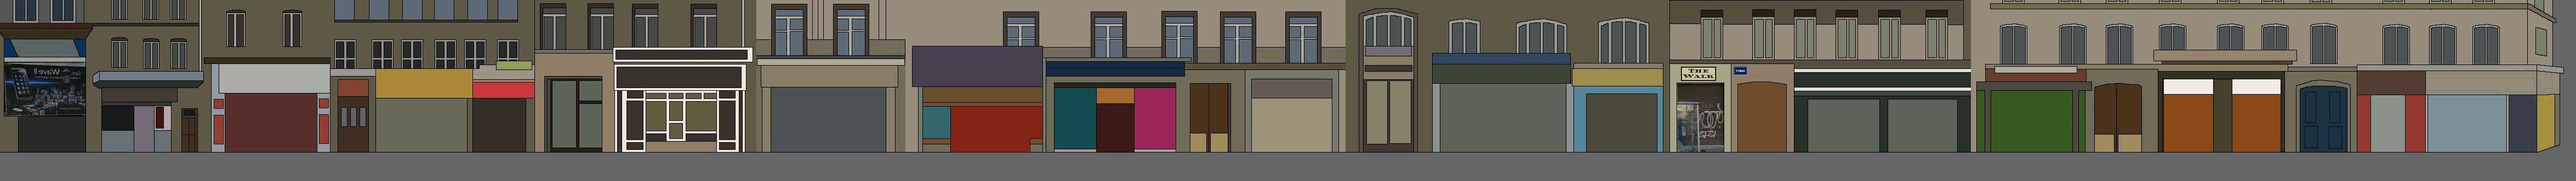
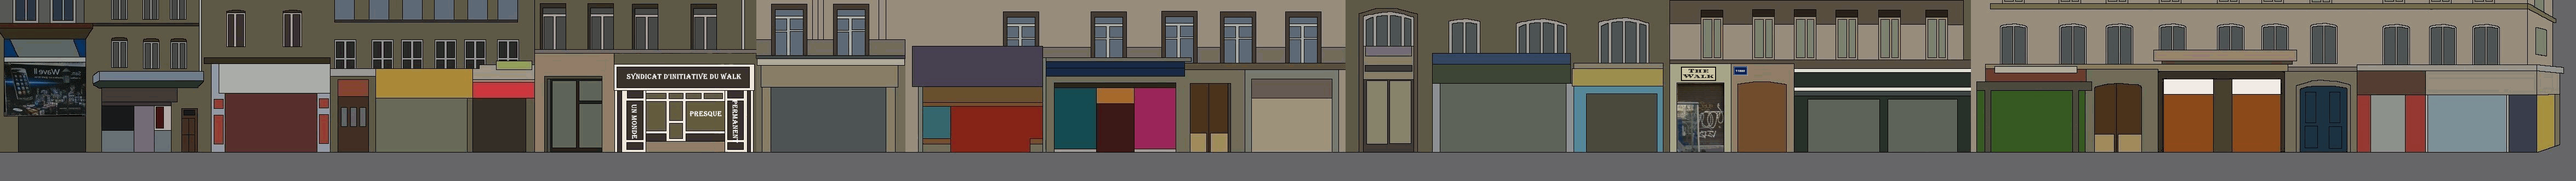
modification du décor et améliorations du code ajour de la boutique syndicatd'initiative

Changed region(s): [[0.2174, 0.2417, 0.3106, 0.8459]]

diff --git a/systeme/js/walk.js b/systeme/js/walk.js
@@ -1,12 +1,12 @@
 // jQuery(document).ready(function($){
-	const fin_recul = 350; // position mini de l'avatar
-	const fin_avanc = 850; //position max de l'avatar 
+	const fin_recul = 400; // position mini de l'avatar
+	const fin_avanc = 750; //position max de l'avatar 
 	let fin_decor = -3450; // position max du decor
 	let deb_decor = 0; // position de debut du decor
 	let avc_monde = 0; // nombre de pixel d'avance du monde
 	const delais = 5000;// délais d'animation
 	const pas = 150; // pas d'avance avec bouton
-	const decalage_monde = 500; // decalage du monde au demarage pour la position de l'avatar
+	const decalage_monde = 600; // decalage du monde au demarage pour la position de l'avatar
 	const marg_main = parseInt($("main").css('margin-left')); // margin de la balise <main></main> 
 	const largeur_monde = 1200; // largeure du monde ne sert pas pour le moment
 	const indc_coul = 1; // couleur de base du corps de l'avatar
@@ -93,7 +93,7 @@
 		/*  */
 	function etape(){
 		AffichageHeader();
-		document.getElementById("monde").classList.add("monde_flex");// a voir si utile icic pascal au 15/06/2025
+		document.getElementById("monde").classList.add("monde_flex")
 		if(getcookie("nom")){
 			nom_avatar = getcookie("nom");
 			etap = getcookie("etap");
@@ -110,18 +110,16 @@
 				default:
 					connextionMonde();
 			}
-		}else	connextionMonde(t);
+		}else	connextionMonde();
 	}
 	/* fin test fetch juillet 2024 */
 
 					/* ETAPE 0 */
 
 	function connextionMonde(){
-	/* 	structureDouble('titre5','titre6')
-		document.getElementById("zon_conex").append(text_jon["structure3"]) */
-		affichage("monde",text_jon["structure3"] );
-		affichage("infos_monde", text_jon["text2"]);
-		affichage("infos_base", text_jon["text3"]);
+		affichage("monde",text_jon["structure_etape0"] );
+		affichage("infos_monde", text_jon["selogger"]);
+		affichage("infos_base", text_jon["inscrtiption"]);
 	}
 
 	/* fonction logger au monde en mode test 04/05/2024 */
@@ -136,8 +134,7 @@
 				if (connex["valid"] !="ok") {
 					affichage("retour_log",connex["erreur"]);
 					document.getElementById("envoi_log").textContent=(`Recommençez`);
-					// document.getElementById("civil").reset();
-					// etape();
+					document.getElementById("civil").reset();
 				}
 				else{
 					affichage("infos_monde","");// efface les textes
@@ -363,18 +360,24 @@
 
 	function ouvreregles() {
 		popup("affiche_regles","flex");
-		affichage("affiche_regles",text_jon["structure4"]);
+		affichage("affiche_regles",text_jon["structure_regles_infos"]);
 		affregles()
-		affichage("aside_regles",text_jon["texte15"])
+		affichage("aside_regles",text_jon["version_regles"] + text_jon["menu_regles"])
+		// affichage("aside_regles",text_jon["menu_regles"])
 		affichage("date_block",text_jon["date"])
 		affichage("version_block", text_jon["version"])
 		affichage("beta_block",text_jon["phase"])
 	}
 	function affregles() {
 		affichage("boite01",text_jon["texte13"]); 
-		affichage("boite02",text_jon["texte14"]);
+		affichage("boite02","");
+		
 	}
 	function bugmodif() {
 		affichage("boite01",text_jon["aff_modif"]); 
 		affichage("boite02",text_jon["aff_bugs"]);
+	}
+	function blogregles() {
+		affichage("boite01",text_jon["texte14"]);
+		affichage("boite02","");
 	}

diff --git a/systeme/js/gestion_monde.js b/systeme/js/gestion_monde.js
@@ -17,8 +17,9 @@ function donneeavataractif(){
     for (var i = 1; i <= Avatmonde.inc; i++) {
         if (getcookie("nom") == Avatmonde["inc"+i]["nom"]){
                 Avatar_actif = new Avatar(Avatmonde["inc"+i]["nom"],Avatmonde["inc"+i]["pos_dep"],0,Avatmonde["inc"+i]["charis"],Avatmonde["inc"+i]["intel"],Avatmonde["inc"+i]["physq"],Avatmonde["inc"+i]["pwalk"],Avatmonde["inc"+i]["age"],Avatmonde["inc"+i]["beaute"],i); 
-               
-                pos_monde = (decalage_monde-(parseInt(Avatar_actif.pos_abs)));//position du monde
+               /*lodif du calcul de position du monde si l'avatar est en dessous du decalage 2/08/2025 */
+                if (parseInt(Avatar_actif.pos_abs)<=decalage_monde)  pos_monde = 0
+               else   pos_monde = (decalage_monde-(parseInt(Avatar_actif.pos_abs)));//position du monde
        }
         tab_pos_rel[i] = pos_monde + parseInt(Avatmonde["inc"+i]["pos_dep"]); // recup des positions absolut des avatars
     }
@@ -93,17 +94,17 @@ $(".btrecul").click(function(){
 
 function affpopupactif() {
     popup("action_avatar","block");
-    affichage("action_avatar",text_jon["bouton6"]);
+    affichage("action_avatar",text_jon["structures6"]);
+    // affichage("action_avatar",text_jon["bouton6"]);
 }
 function avance_souris(){
     pos_monde = $("#img-monde").position().left;
     pos_avatar = Avatar_actif.pos_rel;
     avc_avat = event.pageX - marg_main - Avatar_actif.pos_rel - 55;
-    avance_avatar();
+    avance_avatar()
 }
 function avance_avatar(){
-    let test01 = Math.abs(pos_avatar) + Math.abs(avc_avat);
-    if (test01 < fin_avanc && test01 > fin_recul){
+    if (pos_avatar + avc_avat <fin_avanc && pos_avatar + avc_avat > fin_recul){
         avc_monde = -avc_avat/2;
         avc_avat = avc_avat/2;
         if (pos_monde + avc_monde > fin_decor && pos_monde + avc_monde < deb_decor){
@@ -111,9 +112,11 @@ function avance_avatar(){
             $("." + Avatar_actif.nom + " , #bulle_" + Avatar_actif.nom).animate({left: pos_avatar + avc_avat + 'px'},delais);
             anim_monde();
         }
-    }else{
+    }
+    else{
         avc_monde = -avc_avat;
-        if (pos_monde + avc_monde > fin_decor && pos_monde + avc_monde < deb_decor){ // erreur ca doit etre inferieur à 0
+        console.log("avc_monde : " + avc_monde + "/ pos_monde : " + pos_monde);
+        if (pos_monde + avc_monde > fin_decor && pos_monde + avc_monde < deb_decor){
             anim_monde();  
         } 
     }

diff --git a/systeme/js/gestion_monde_2025.js b/systeme/js/gestion_monde_2025.js
@@ -1,0 +1,26 @@
+function calcul_avance(){
+    let test01 = Math.abs(pos_avatar) + Math.abs(avc_avat);
+    if (test01 < fin_avanc && test01 > fin_recul){
+        avc_monde = -avc_avat/2;
+        avc_avat = avc_avat/2;
+        avance_avatar()
+/*         if (pos_monde + avc_monde > fin_decor && pos_monde + avc_monde < deb_decor){
+            Avatar_actif.pos_rel =  pos_avatar + avc_avat;
+            $("." + Avatar_actif.nom + " , #bulle_" + Avatar_actif.nom).animate({left: pos_avatar + avc_avat + 'px'},delais);
+            anim_monde();
+        } */
+    }else{
+        avc_monde = -avc_avat;
+        if (pos_monde + avc_monde > fin_decor && pos_monde + avc_monde < deb_decor){ // erreur ca doit etre inferieur à 0
+             
+        }else avance_avatar()
+    }
+    anim_monde();
+}
+function avance_avatar() {
+            if (pos_monde + avc_monde > fin_decor && pos_monde + avc_monde < deb_decor){
+            Avatar_actif.pos_rel =  pos_avatar + avc_avat;
+            $("." + Avatar_actif.nom + " , #bulle_" + Avatar_actif.nom).animate({left: pos_avatar + avc_avat + 'px'},delais);
+           
+        }
+}

diff --git a/systeme/css/walk.css b/systeme/css/walk.css
@@ -338,7 +338,7 @@ label {
 .btn_cookie {
     position: absolute;
     bottom: 10px;
-    width: 59px;
+    width: 125px;
     left: 45%;
     background-color:var(--bleu);
     color:var(--blanc);
@@ -482,22 +482,29 @@ footer a {
     grid-column: 3 / 5;
     grid-row: 3;
 } */
-#info_avatar{
+#info_avatar, #inter_avatar_actif{
     table-layout: fixed;
     width: 100%;
     height: 100%;
     border-collapse: collapse;
     border: 3px solid purple;
 }
-#info_avatar tbody td{
+ #inter_avatar_actif{
+    height: 90%;
+ }
+#info_avatar tbody td, #inter_avatar_actif tbody td{
     border: 1px solid var(--bleu) ;
 }
-#info_avatar tbody th:nth-child(1) {
+#titre_inter_avat{
+    height: 30px;
+    text-align: center;
+}
+/* #info_avatar tbody th:nth-child(1) {
     width: calc(100/3);
 }
 #info_avatar tbody th:nth-child(2) {
     width: calc(100/3);
-}
+} */
 #info_avatar textarea {
     resize: none;
     margin-left: 8px;

diff --git a/systeme/js/fonctions_internes.js b/systeme/js/fonctions_internes.js
@@ -62,12 +62,11 @@ function setCookie(name, value, expires, path, domain, secure) {
 function strUcFirst(a) {
 	return (a+'').charAt(0).toUpperCase() + (a+'').substr(1);
   }
-	/* etape 0 conection et enregistrement nouvel avatar */
 
-  /* nouvelle fonction pour afficher les données textes qui sont permanente sur tout le site */
+  /* Affiche les textes permanents sur tout le site */
 function AffichePermanent() {
-  affichage("info-erg", text_jon["text1"]);
-  affichage("info_cookie", text_jon["text5"]);
+  affichage("info-erg", text_jon["text_navigateur"]);
+  affichage("info_cookie", text_jon["info_cookie"]);
   affichage("foot_version",text_jon["version"]);
   affichage("foot_date",text_jon["date"]);
   affichage("foot_phase",text_jon["phase"]);
